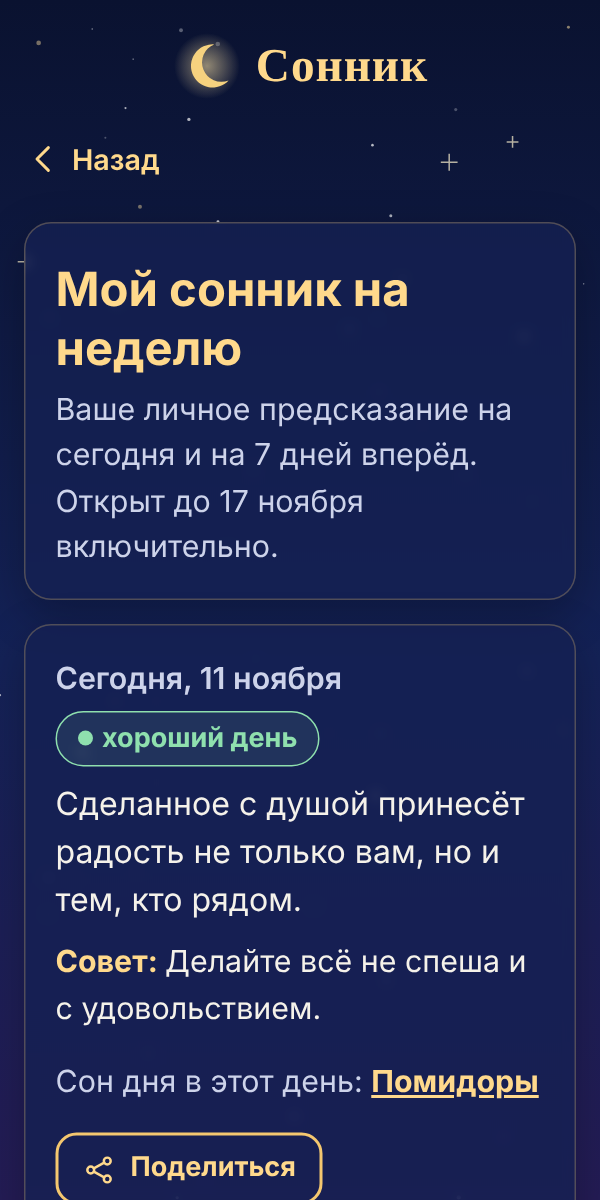
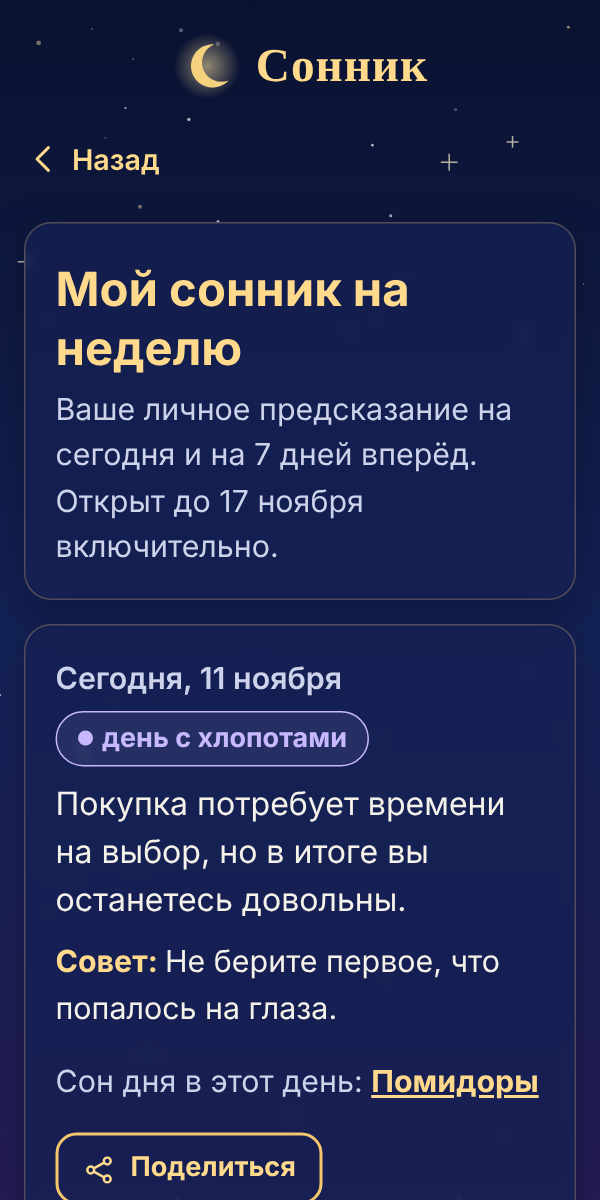
Сонник: скриншот недели начинается с карточки дня
Claude-Session: https://claude.ai/code/session_01MjZFuytG4ZbGkAxfXKYFiX

Changed region(s): [[0.09, 0.5858, 0.87, 0.8633], [0.84, 0.8017, 0.87, 0.8325], [0.81, 0.7092, 0.84, 0.74]]

diff --git a/tools/release-shots.js b/tools/release-shots.js
@@ -43,7 +43,7 @@ const srv = http.createServer((req, res) => {
   await page.waitForTimeout(1200);
   await page.evaluate(() => { const n = document.querySelector(".notice"); if (n) n.remove(); window.scrollTo(0, 0); });
   await snap("4-nedelya");
-  await page.evaluate(() => window.scrollBy(0, 560));
+  await page.evaluate(() => { const d = document.querySelectorAll(".week-day")[1]; window.scrollTo(0, d.getBoundingClientRect().top + window.scrollY - 16); });
   await snap("5-nedelya-dni");
   await page.goto(base + "?nobanner#dream=zmeya");
   await page.waitForTimeout(800);
